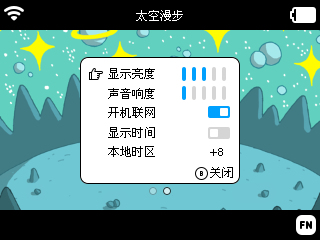
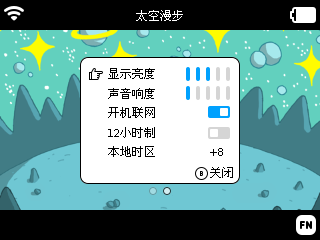
update docs

Changed region(s): [[0.5625, 0.2625, 0.7188, 0.4375], [0.4375, 0.525, 0.5, 0.5833], [0.3438, 0.525, 0.4062, 0.5833]]

diff --git a/docs/zh-cn/intro.md b/docs/zh-cn/intro.md
@@ -1,6 +1,49 @@
 ![](../_media/3d.jpg)
 
-这是一款少儿编程硬件产品，非常符合国内目前的小学阶段编程教育（Scratch图形化和Python编程），以往的编程学习在教学过程中逐渐变得模式单一，程序模版化，学生兴趣下滑。这款产品将完全弥补这些不足，提升教学内容的丰富性，程序的多样性和变化性，学生的成就感获得完全提升，并且**完全不改变现在已有的教学内容，完全拿来即用。**
+这是一款针对少儿编程可编程游戏机硬件产品，解决当前 Scratch 教学模式单一，程序模版化，没有硬件关联，导致学生兴趣下滑。这款产品将完全弥补这些不足，提升教学内容的丰富性，程序的多样性和变化性，学生的成就感获得完全提升，并且**完全不改变现在已有的教学内容，完全拿来即用。**
+
+## 开发故事
+
+本人从小就热爱玩游戏，并从事游戏开发工作十多年，自2018年开始接触到Scratch少儿编程，一开始只是完成由游戏开发者到少儿编程教育工作者转型。由于工作关系接触到了开源硬件micro:bit, 偶然发现micro:bit V2加上LCD屏幕可以使用MakeCode Arcade图形化工具来开发游戏。任何人真的可以通过图形化的工具给自己制作开发游戏还可以下载到游戏机里面去玩。接触这个软件后对我一个传统游戏开发者来说是非常震惊的，于是立马淘宝上买了一个回来玩，玩了一阵子后，职业的原因让我发现了一些用户体验问题，MakeCode Arcade编程所有的游戏场景，背景，元素全部在一个主程序里面，并且控制器都要依赖游戏机本身的硬件，这样导致游戏程序的编写难度偏大。别说是小朋友和新手用户，就算是我这个游戏开发多年的人来说都感觉有点绕，MakeCode Arcade还是有一种程序员在做游戏开发的影子在里面。相比而言Scratch游戏编程就显得简单很多，常用图标，声音元素可以直接使用自带的或者电脑上传，不需要全部靠编程去实现。不同角色可以独立模块化编程，无论是编程框架还是编程思想，用户都能很容易理解。我在实际教学应用中也验证了这点，教学难度Scratch远低于MakeCode Arcade。
+
+随着工作的深入了解，发现国内大部分少儿编程机构使用的教学软件和大家熟知的编程平台比如mind+，openblock，mblock……大都是基于原生Scratch做的二次开发。早期用户也几乎都是通过Scratch开展少儿编程教学发展起来的，还有国内Scratch普及程度非常高。MakeCode Arcade在国内用户就显得少了。于是我就萌生了一个想法，是否可以开发一款可以运行Scratch游戏的编程游戏机呢？
+
+带着这个想法我开始做了如下尝试：
+
+- 首先我想到的第一个方案是找直接运行Scratch原生格式的硬件，但是很快发现一个问题，其实原生Scratch是非常吃硬件CPU和内存的，即便是在树莓派上这样配置的设备上去运行原生Scratch也不是非常流程，那么选择能运行Linux带UI系统的硬件（比如全志/RK方案），但是最低成本也到了200RMB。显然这个方案就像把scratch放到了移动端来运行一样，虽然可行，但是硬件成本过高，但是做出来无论是价格上还是优势并不明显，还不如做手机APP来得简单。
+- 很快我又构思了第二个方案，就是设备上不需要去执行原生Scratch应用软件，参考Scratch源码写一个类似可以解析运行sb3格式的程序。但是这里又有问题，原生Scratch除了执行程序外还有很多元素，图标等资源文件，这些资源文件大概有几十兆得先内置到硬件里面，如果上位机增加修改了资源文件，那么下位机就必须升级固件才能同步。并且同样对硬件内存依然也还要求比较高，且编写这个软件难度真不小。
+
+通过前面两次思考论证，我重新总结需求，做了一些调整，把核心需求列出来
+
+- 硬件最好是现在主流开源硬件，硬件BOM成本控制在100内，方便制作和复刻，兼容性要强，方便开发固件，扩展功能等。
+- 其实大家喜欢是Scratch编程方式，比如mblock，mind+，编程猫……这些类似Scratch方式大家都能很快适应。那么我们只需要尽可能地保持Scratch编程方式，不必执念一定要去运行原生Scratch格式。
+
+有了前面得总结，很快我在MakeCode软件里面micro:bit主板模拟器里找到了灵感，Scratch舞台本质上也是一个模拟器，想通这一点，我的硬件运行的游戏就不需要是原生Scratch的sb3文件，我可以自己定义游戏运行方式，再在Scratch软件重写一个对应我硬件的模拟器替代原本的Scratch舞台。这样Scratch软件只有舞台相对于原生的有些变化之外，其他几乎一摸一样。
+
+为了实现这些想法，我重新创建了一个新的Scratch框架（原生的Scratch框架不在适合做扩展，所以我从头搭建了一个新的框架）——我称之为**BlockCode框架**。当时手里有一块Pico:ed（基于RP2040主控）主板硬件，于是我在**BlockCode框架**里面做了可以模拟Pico:ed按键和显示功能：
+
+![](_media/picoed.jpg)
+
+但是我们是要做游戏，肯定需要带屏幕，于是我又做了一个基于RP2040带LCD屏幕的硬件（自学硬件设计，第一次画PCB板）。
+
+![](_media/picoarcade.jpg)
+
+当时这个项目也有开源[https://gon.gyeq.in/#/2023/0617/](https://gon.gyeq.in/#/2023/0617/)，现在已经删了。
+
+在使用RP2040做主控时，很快我又发现了新的问题。RP2040主频只有133M，在做图片刷新时有点吃力，RP2040在外设扩展时时开源资料并不多，后续扩展功能也有些费劲，于是我把目光放到了ESP32-S3上，240M主频，支持WiFi/蓝牙可扩展功能足够多。于是我重新做了新的基于ESP32-S3的新硬件：
+
+![](_media/popsicle.jpg)
+
+历时半年基本实现了基本功能，但是还是觉得这个不像游戏机，于是加大了LCD屏幕，改成了游戏机模样，最后就是大家见到的开源的样子。好了其实在整个开发验证过程中花费时间一年半，有非常多的技术细节，也遇到了非常多的技术挑战点，大致有如下：
+
+1. 编程方式要原封不动兼容原生Scratch然后用模拟器替代舞台
+1. 游戏运行流程程度，在单片机的主控上LCD屏幕刷新速率
+1. 联网功能，录音功能，播放声音功能也要在游戏机上实现
+1. 目标要能打开sb3游戏格式
+
+为了致敬MakeCode Arcade和Scratch这两个经典且强大的平台，于是本游戏机叫做——
+
+# Scratch Arcade
 
 ## 产品特性
 

diff --git a/docs/zh-cn/os.md b/docs/zh-cn/os.md
@@ -73,12 +73,12 @@
 
 ![](_media/wifi-settings.png)
 
-| 设置   | 说明                                      |
-| ---- | --------------------------------------- |
-| 开机联网 | 开机立刻连接上一次的网络，如果网络不可用则不联网。（默认开启）         |
-| 显示时间 | 连接网络后显示当前时间，如果网络不可用则不显示。（默认开启）          |
-| 本机时区 | 调整时区，将影响显示的时间。（默认为语言主要地区的时区，如，简体中文为+8区） |
-| 重置网络 | 断开当前网络，删除保存的联网信息。                       |
+| 设置    | 说明                                      |
+| ----- | --------------------------------------- |
+| 开机联网  | 开机立刻连接上一次的网络，如果网络不可用则不联网。（默认开启）         |
+| 12小时制 | 以12小时制显示当前时间。（默认关闭，以24小时制显示时间）          |
+| 本机时区  | 调整时区，将影响显示的时间。（默认为语言主要地区的时区，如，简体中文为+8区） |
+| 重置网络  | 断开当前网络，删除保存的联网信息。                       |
 
 !> 也可以通过[BlockCode Playgrounds](https://make.blockcode.fun/)在电脑上设置[Arcade](https://arcade.blockcode.fun/)的网络，在下载程序后将连接到设置好的网络。
 
@@ -88,13 +88,13 @@
 
 ![](_media/system-settings.png)
 
-| 设置   | 说明                                             |
-| ---- | ---------------------------------------------- |
-| 显示亮度 | 显示屏的亮度调整。（默认为3，为0时关闭显示屏，关闭屏幕状态下按下**FN键**可恢复为3） |
-| 声音响度 | 声音的响度调整。（默认为3，为0时静音）                           |
-| 开机联网 | 开机立刻连接上一次的网络，如果网络不可用则不联网。（默认开启）                |
-| 显示时间 | 连接网络后显示当前时间，如果网络不可用则不显示。（默认开启）                 |
-| 本机时区 | 调整时区，将影响显示的时间。（默认为语言主要地区的时区，如，简体中文为+8区）        |
+| 设置    | 说明                                             |
+| ----- | ---------------------------------------------- |
+| 显示亮度  | 显示屏的亮度调整。（默认为3，为0时关闭显示屏，关闭屏幕状态下按下**FN键**可恢复为3） |
+| 声音响度  | 声音的响度调整。（默认为3，为0时静音）                           |
+| 开机联网  | 开机立刻连接上一次的网络，如果网络不可用则不联网。（默认开启）                |
+| 12小时制 | 以12小时制显示当前时间。（默认关闭，以24小时制显示时间）                 |
+| 本机时区  | 调整时区，将影响显示的时间。（默认为语言主要地区的时区，如，简体中文为+8区）        |
 
 ### 控制器
 
